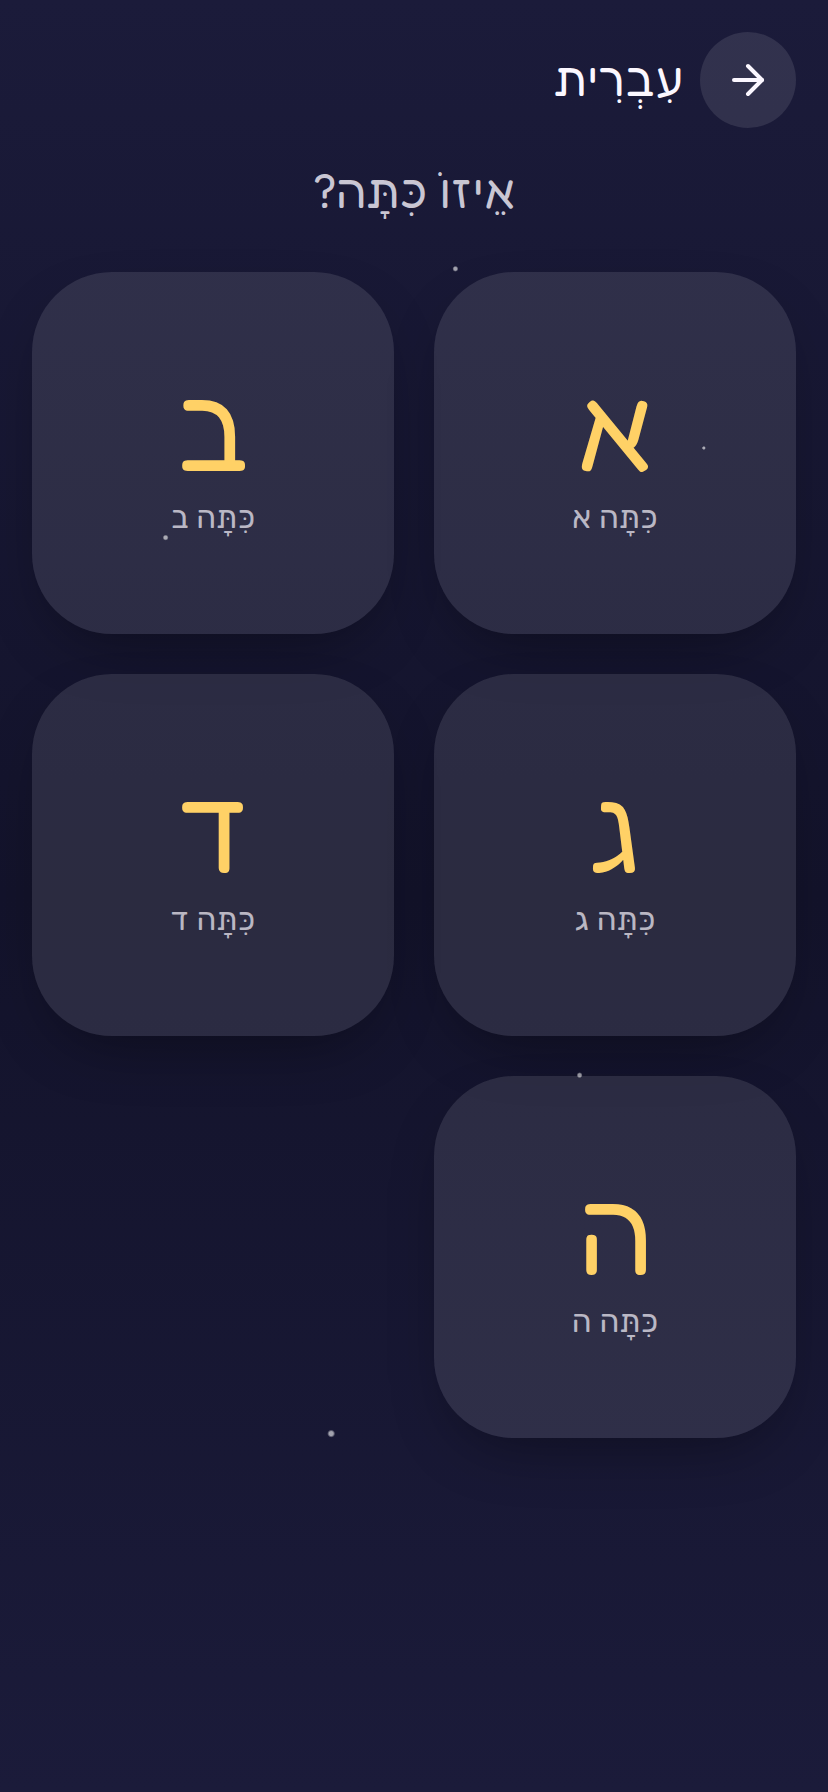
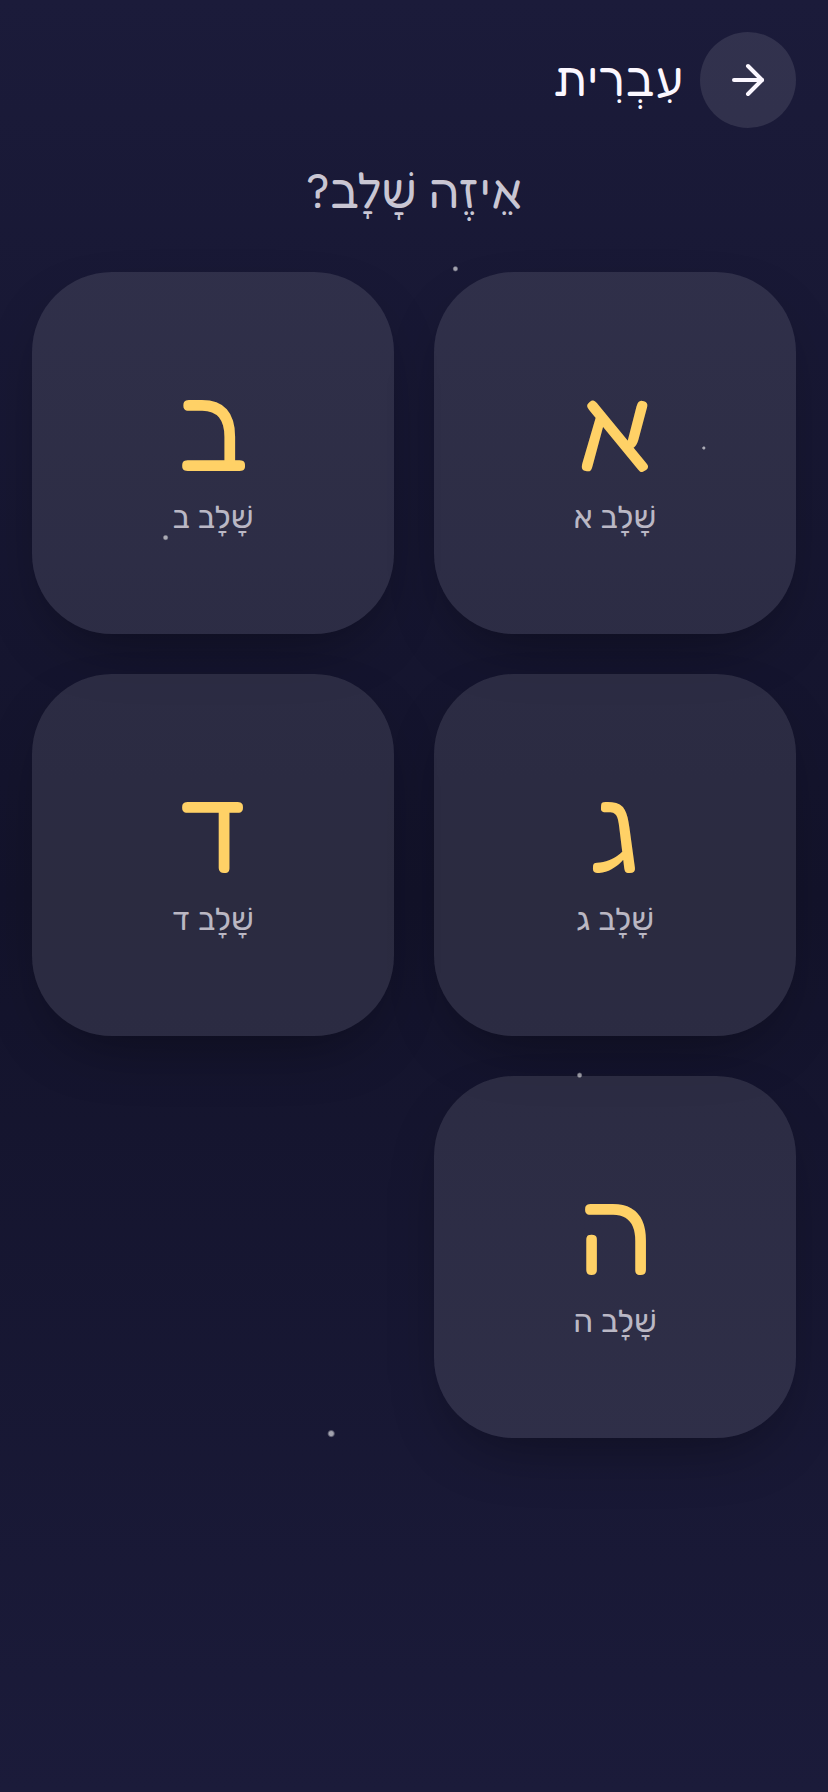
docs: update README wording and screenshots for stage labels

diff --git a/README.md b/README.md
@@ -1,6 +1,6 @@
 # BrightKids
 
-> A kid-friendly web app that teaches **Hebrew**, **English**, and **Math** to children in **grades 1–6** — shipped as a single Go binary serving an embedded, offline-capable PWA.
+> A kid-friendly web app that teaches **Hebrew**, **English**, and **Math** to children across **stages 1–6** — shipped as a single Go binary serving an embedded, offline-capable PWA.
 
 BrightKids is audio-first, mobile-first, and zero-PII: profiles are just a name and a buddy a child picks, stored locally. No accounts, no tracking, no external calls from the child's device. A friendly droid guide named **Bibo** narrates prompts and cheers every correct answer.
 
@@ -12,10 +12,10 @@ BrightKids is audio-first, mobile-first, and zero-PII: profiles are just a name 
 
 ## Features
 
-- **Trilingual content** — Hebrew (RTL, grades 1–5), English (LTR, grades 1–4), and Math (grades 1–6), with proper BiDi isolation for mixed Hebrew/digit text.
+- **Trilingual content** — Hebrew (RTL, stages 1–5), English (LTR, stages 1–4), and Math (stages 1–6), with proper BiDi isolation for mixed Hebrew/digit text.
 - **Seven activity types** — letter recognition, multiple choice, counting, arithmetic, matching, drag-to-order, and finger **tracing** (canvas with mask-coverage scoring).
 - **Curriculum-based exercises** — built from a real graded worksheet curriculum. Math (g1–6) spans counting, comparison ("Who is bigger?"), number sense, place value, the four operations, sequences, even/odd, fractions, decimals, order of operations, rounding, word problems, and clock reading. Hebrew (g1–5) covers vowels, reading comprehension, synonyms/opposites, verbs, and sentence ordering; English (g1–4) covers ABC, phonics, word families, and graded reading. Math & Hebrew narrate in Hebrew; English in English.
-- **Randomized practice** — pick a subject then a grade; every lesson holds a large pool and samples a fresh set each play, with a **shuffle** button to redraw for endless variety.
+- **Randomized practice** — pick a subject then a stage; every lesson holds a large pool and samples a fresh set each play, with a **shuffle** button to redraw for endless variety.
 - **Optional narration** — text-to-speech is **off by default**; enable it with `BRIGHTKIDS_TTS_ENABLED` for a tap-to-hear **Listen** button (he-IL for Hebrew/Math, en-US for English). No auto-play, so the screen stays calm.
 - **Playful rewards** — confetti, synthesized sound effects, Bibo reactions, stars, and a daily streak. Mistakes get a gentle "try again," never a shaming buzzer.
 - **Accessible** — 48px tap targets, `prefers-reduced-motion` honored, OpenDyslexic font, high-contrast palette, and picture/visual-first activities so pre-readers can play.
@@ -27,7 +27,7 @@ BrightKids is audio-first, mobile-first, and zero-PII: profiles are just a name 
 
 ## Screenshots
 
-| Choose a subject | Choose a grade | Lesson list | Stars & streak |
+| Choose a subject | Choose a stage | Lesson list | Stars & streak |
 |---|---|---|---|
 | ![Subjects](assets/screenshots/subjects.png) | ![Grades](assets/screenshots/grades.png) | ![Lessons](assets/screenshots/lessons.png) | ![Rewards](assets/screenshots/rewards.png) |
 